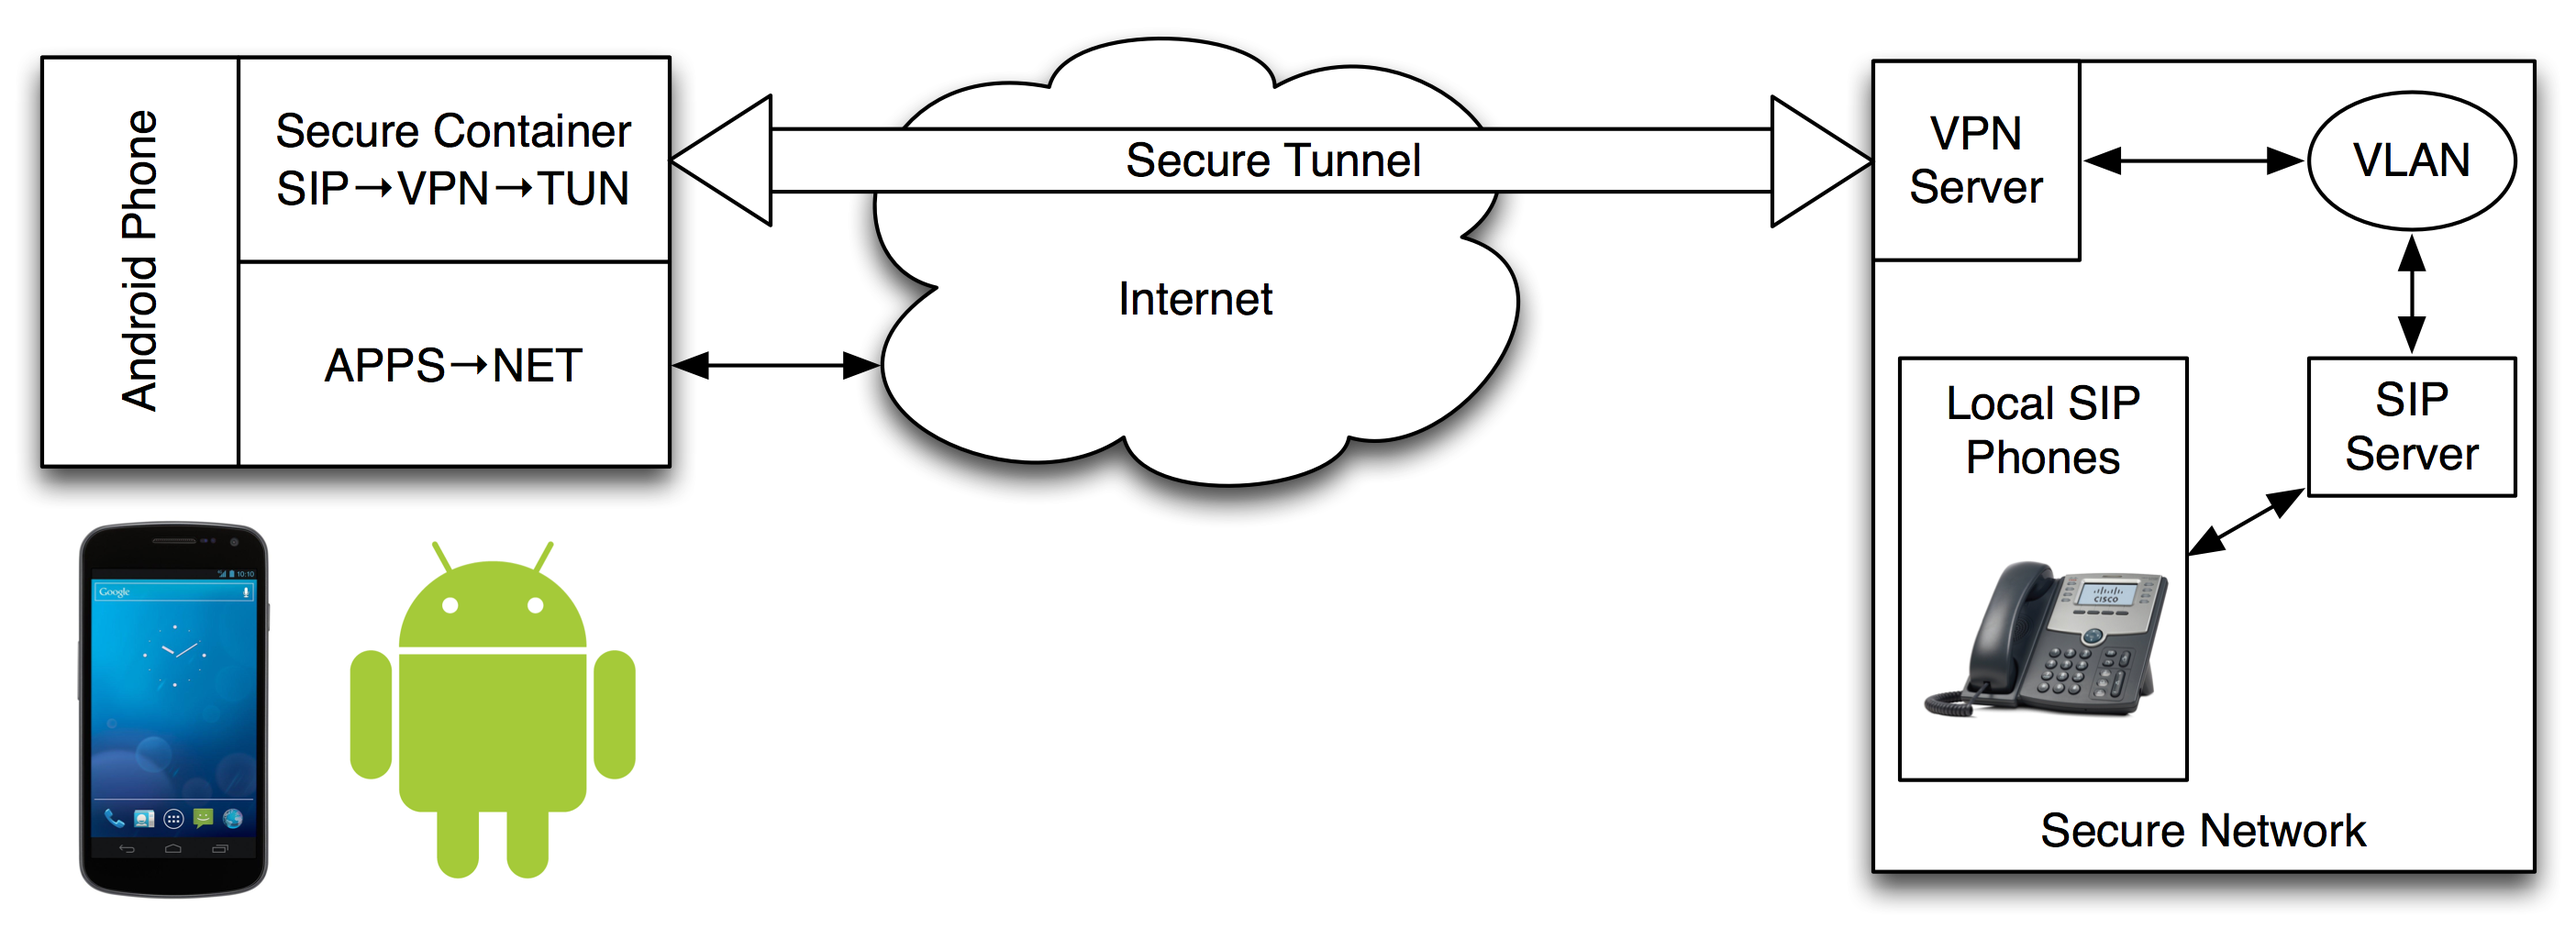
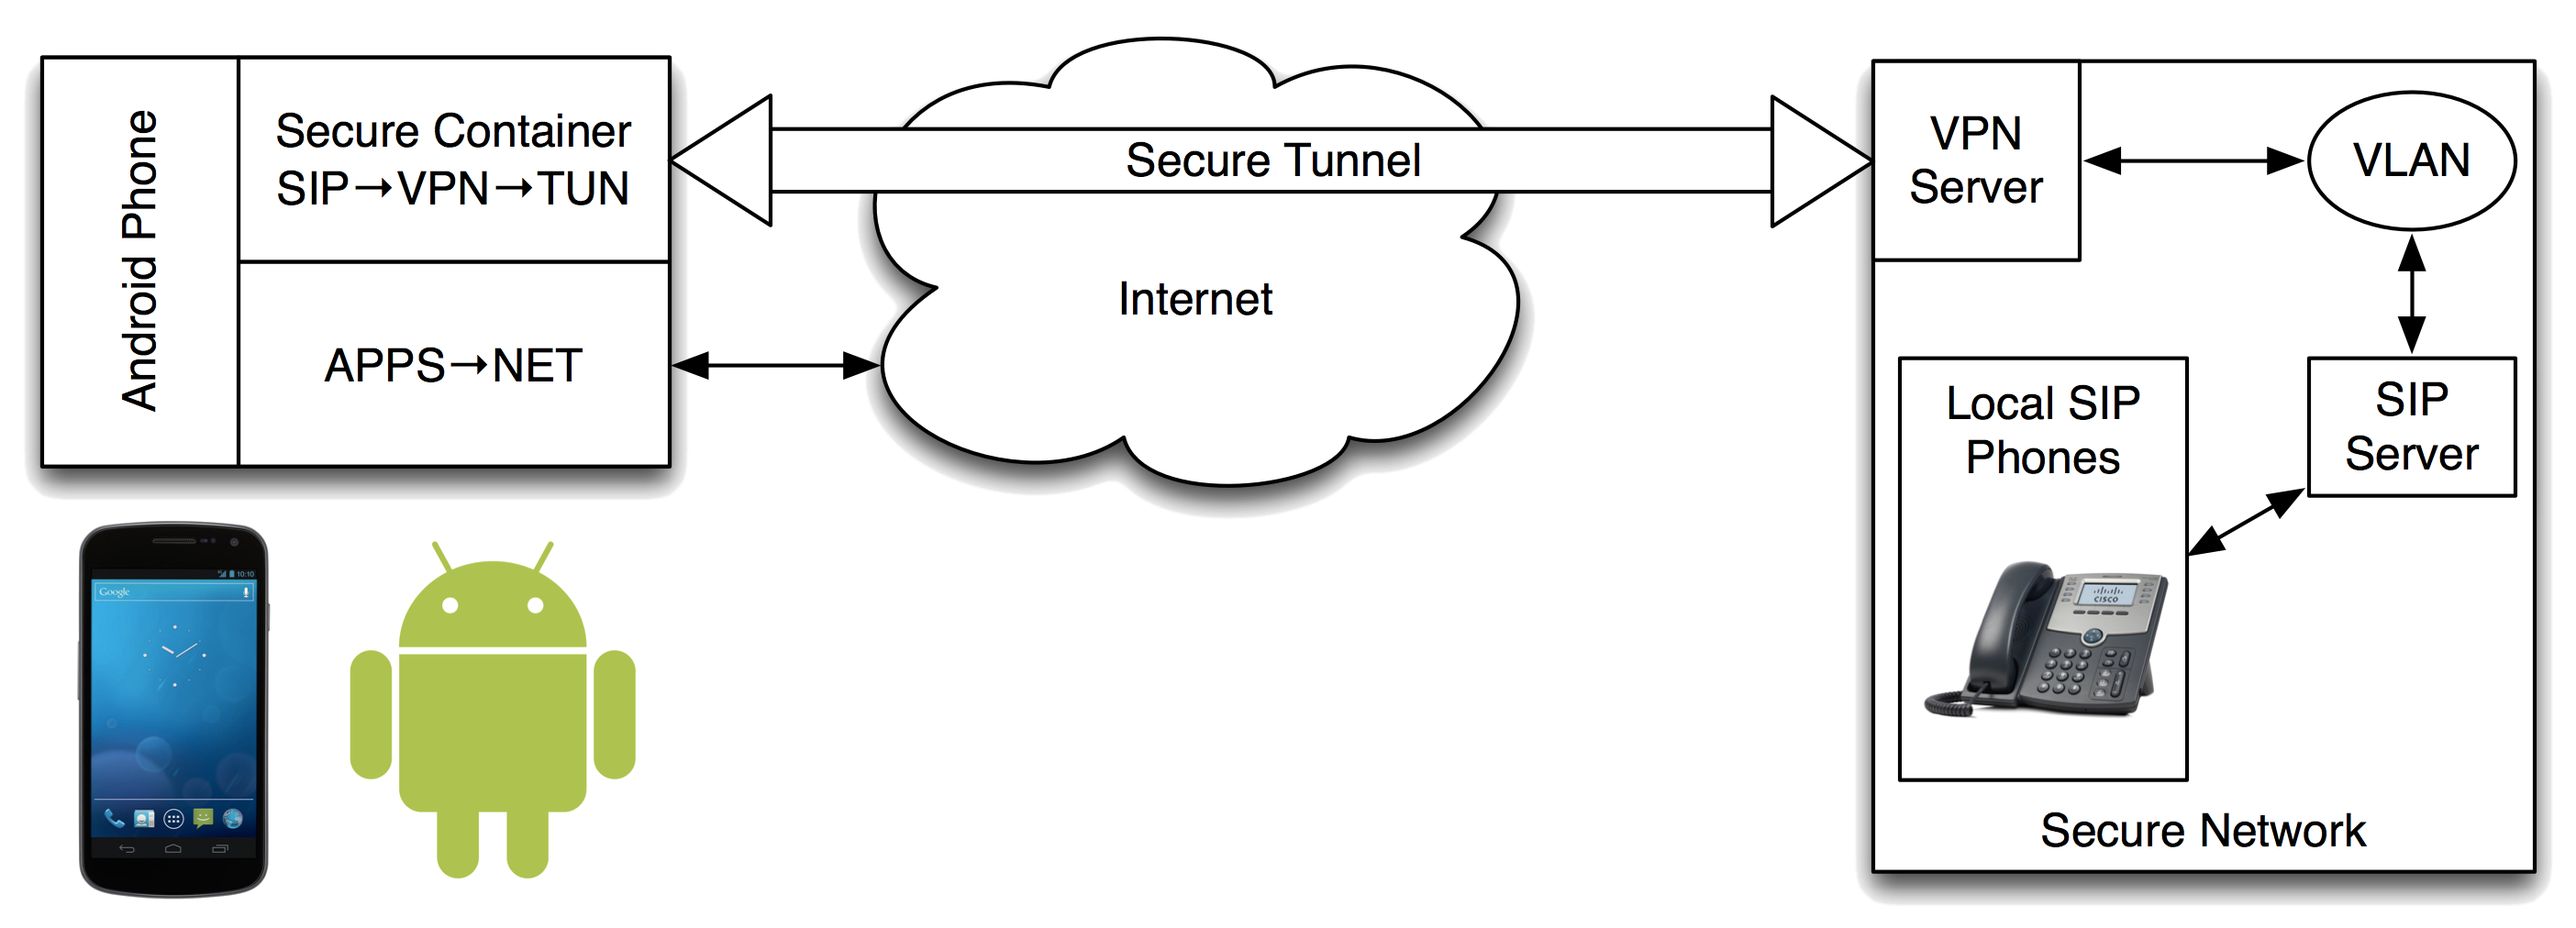
Fixed network diagram image

Changed region(s): [[0.031, 0.6126, 0.1239, 0.7964]]

diff --git a/style.css b/style.css
@@ -66,5 +66,12 @@ div.content[ref="intro/01_title"] {
 .content img {
   max-width: 100%;
   height: auto;
-  width: 100%;
+}
+
+.content .frame {
+  display: block;
+  background-color: gray;
+  padding: 20px;
+  border-radius: 40px;
+  font-variant: small-caps;
 }

diff --git a/approach/00_environment.md b/approach/00_environment.md
@@ -1,7 +1,9 @@
 !SLIDE center
 .title Network Environment 
 
-![Network Diagram](NetworkDiagram.png)
+<span class='frame'>
+  ![Network Diagram](NetworkDiagram.png)
+</span>
 
 !SLIDE center
 .title Build Environment
